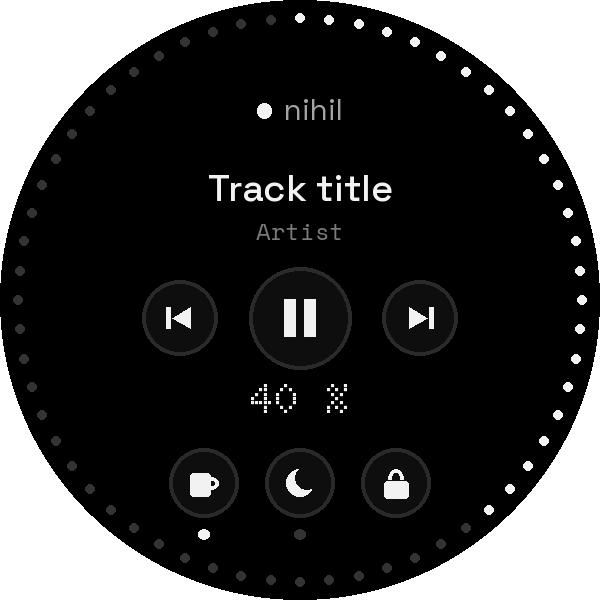
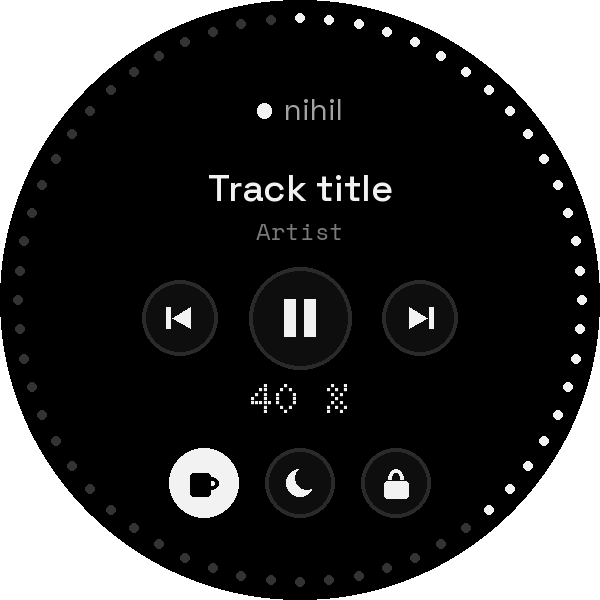
Home and deck: a click of the bezel is one step, never two; caffeine and night light in ink while on

Changed region(s): [[0.27, 0.75, 0.42, 0.9], [0.48, 0.87, 0.51, 0.9]]

diff --git a/app/src/main/java/com/nihilshell/wear/ui/DeckView.kt b/app/src/main/java/com/nihilshell/wear/ui/DeckView.kt
@@ -16,7 +16,6 @@ import android.view.ViewConfiguration
 import com.nihilshell.wear.R
 import com.nihilshell.wear.core.Turns
 import org.json.JSONObject
-import kotlin.math.abs
 import kotlin.math.cos
 import kotlin.math.hypot
 import kotlin.math.min
@@ -27,8 +26,9 @@ import kotlin.math.sin
  * The computer's deck on the watch: what plays and its keys; the bezel or
  * the crown turns the volume, which the LEDs round the edge show, as the
  * desktop's light goes round its frame; the computer's caffeine, night light
- * and lock under it, each with its LED. A LED before the computer's name says
- * whether it answers; what went wrong is said in ink, with a red LED before it.
+ * and lock under it, caffeine and night light lit in ink while they are on. A
+ * LED before the computer's name says whether it answers; what went wrong is
+ * said in ink, with a red LED before it.
  */
 class DeckView(context: Context) : View(context) {
     var name = ""
@@ -177,22 +177,23 @@ class DeckView(context: Context) : View(context) {
     private fun key(canvas: Canvas, name: String, x: Float, y: Float, radius: Float, size: Float) {
         keys[name] = floatArrayOf(x, y, radius)
         val down = pressed == name
+        val lit = on[name] == true
         ring.strokeWidth = size * 0.006f
-        ring.color = if (down) Nihil.INK else Nihil.LINE
-        dots.color = if (down) Nihil.RAISED else Nihil.SURFACE
+        ring.color = if (down || lit) Nihil.INK else Nihil.LINE
+        dots.color = when {
+            lit && down -> Nihil.DIM
+            lit -> Nihil.INK
+            down -> Nihil.RAISED
+            else -> Nihil.SURFACE
+        }
         canvas.drawCircle(x, y, radius, dots)
         canvas.drawCircle(x, y, radius, ring)
         val icon = icons[name]
         if (icon != null) {
             val half = (radius * 0.55f).roundToInt()
             icon.setBounds((x - half).roundToInt(), (y - half).roundToInt(), (x + half).roundToInt(), (y + half).roundToInt())
-            icon.setTint(Nihil.INK)
+            icon.setTint(if (lit) Nihil.VOID else Nihil.INK)
             icon.draw(canvas)
-            // Its LED, lit while it is on.
-            if (name != "lock") {
-                dots.color = if (on[name] == true) Nihil.INK else Nihil.OFF
-                canvas.drawCircle(x, y + radius + size * 0.028f, size * 0.009f, dots)
-            }
             return
         }
         dots.color = Nihil.INK
@@ -270,10 +271,10 @@ class DeckView(context: Context) : View(context) {
     /** The bezel or the crown: the volume, a step at a time, each with a tick. */
     override fun onGenericMotionEvent(event: MotionEvent): Boolean {
         if (event.action == MotionEvent.ACTION_SCROLL && event.isFromSource(InputDevice.SOURCE_ROTARY_ENCODER)) {
-            val steps = turns.add(-event.getAxisValue(MotionEvent.AXIS_SCROLL))
+            val steps = turns.add(-event.getAxisValue(MotionEvent.AXIS_SCROLL)).coerceIn(-1, 1)
             if (steps != 0) {
                 performHapticFeedback(HapticFeedbackConstants.CLOCK_TICK)
-                repeat(abs(steps)) { onTurn(if (steps > 0) 1 else -1) }
+                onTurn(steps)
             }
             return true
         }

diff --git a/app/src/main/java/com/nihilshell/wear/ui/AppList.kt b/app/src/main/java/com/nihilshell/wear/ui/AppList.kt
@@ -13,6 +13,7 @@ import android.view.VelocityTracker
 import android.view.View
 import android.view.ViewConfiguration
 import android.widget.OverScroller
+import com.nihilshell.wear.core.Turns
 import java.util.Date
 import kotlin.math.abs
 import kotlin.math.max
@@ -51,7 +52,7 @@ class AppList(context: Context) : View(context) {
     private var dragging = false
     private var flinging = false
     private var centred = 0
-    private val settle = Runnable { snap() }
+    private val turns = Turns()
 
     init {
         isFocusable = true
@@ -171,17 +172,28 @@ class AppList(context: Context) : View(context) {
 
     override fun performClick(): Boolean = super.performClick()
 
-    /** The crown, a rotating bezel or a touch bezel: Wear OS gives them all as the same scroll. */
+    /**
+     * The crown, a rotating bezel or a touch bezel: Wear OS gives them all as the
+     * same scroll. A click of a bezel, or a whole turn's worth of a crown, is one
+     * line and never more, however far the watch would scroll a list for it.
+     */
     override fun onGenericMotionEvent(event: MotionEvent): Boolean {
         if (event.action == MotionEvent.ACTION_SCROLL && event.isFromSource(InputDevice.SOURCE_ROTARY_ENCODER)) {
-            scroller.forceFinished(true)
-            flinging = false
-            move(-event.getAxisValue(MotionEvent.AXIS_SCROLL) * config.scaledVerticalScrollFactor)
-            removeCallbacks(settle)
-            postDelayed(settle, SETTLE)
+            val steps = turns.add(-event.getAxisValue(MotionEvent.AXIS_SCROLL)).coerceIn(-1, 1)
+            if (steps != 0) step(steps)
             return true
         }
         return super.onGenericMotionEvent(event)
+    }
+
+    /** One line up or down, from the one in the middle. */
+    private fun step(direction: Int) {
+        if (row <= 0f) return
+        scroller.forceFinished(true)
+        flinging = false
+        val target = (((offset / row).roundToInt() + direction) * row).coerceIn(0f, limit())
+        scroller.startScroll(0, offset.roundToInt(), 0, (target - offset).roundToInt(), Nihil.FAST.toInt())
+        postInvalidateOnAnimation()
     }
 
     private fun move(dy: Float) {
@@ -226,6 +238,5 @@ class AppList(context: Context) : View(context) {
 
     companion object {
         private const val ROW = 0.15f
-        private const val SETTLE = 140L
     }
 }

diff --git a/tools/screens.py b/tools/screens.py
@@ -87,8 +87,8 @@ def deck(level=40, playing=True, caffeine=True, night=False):
     draw.text((cx, cy - S * 0.165), "Track title", font=font("SpaceGrotesk-Medium.ttf", S * 0.064), fill=INK, anchor="ms")
     draw.text((cx, cy - S * 0.1), "Artist", font=font("SpaceMono-Regular.ttf", S * 0.04), fill=MUTED, anchor="ms")
 
-    def key(x, y, r):
-        draw.ellipse((x - r, y - r, x + r, y + r), fill=SURFACE, outline=LINE, width=max(1, round(S * 0.006)))
+    def key(x, y, r, lit=False):
+        draw.ellipse((x - r, y - r, x + r, y + r), fill=INK if lit else SURFACE, outline=INK if lit else LINE, width=max(1, round(S * 0.006)))
 
     for x, r in ((cx - S * 0.2, S * 0.062), (cx, S * 0.085), (cx + S * 0.2, S * 0.062)):
         key(x, cy + S * 0.03, r)
@@ -108,16 +108,16 @@ def deck(level=40, playing=True, caffeine=True, night=False):
     y = cy + S * 0.305
     r = S * 0.058
     for x, which in ((cx - S * 0.16, "caffeine"), (cx, "night"), (cx + S * 0.16, "lock")):
-        key(x, y, r)
+        lit = {"caffeine": caffeine, "night": night}.get(which, False)
+        key(x, y, r, lit)
         g = r * 0.5
+        ink, ground = (VOID, INK) if lit else (INK, SURFACE)
         if which == "caffeine":
-            draw.rounded_rectangle((x - g * 0.8, y - g * 0.55, x + g * 0.35, y + g * 0.75), radius=g * 0.2, fill=INK)
-            draw.arc((x + g * 0.05, y - g * 0.3, x + g * 0.85, y + g * 0.4), -90, 90, fill=INK, width=max(2, round(g * 0.22)))
-            dot(draw, x, y + r + S * 0.028, S * 0.009, INK if caffeine else OFF)
+            draw.rounded_rectangle((x - g * 0.8, y - g * 0.55, x + g * 0.35, y + g * 0.75), radius=g * 0.2, fill=ink)
+            draw.arc((x + g * 0.05, y - g * 0.3, x + g * 0.85, y + g * 0.4), -90, 90, fill=ink, width=max(2, round(g * 0.22)))
         elif which == "night":
-            dot(draw, x, y, g * 0.8, INK)
-            dot(draw, x + g * 0.38, y - g * 0.3, g * 0.66, SURFACE)
-            dot(draw, x, y + r + S * 0.028, S * 0.009, INK if night else OFF)
+            dot(draw, x, y, g * 0.8, ink)
+            dot(draw, x + g * 0.38, y - g * 0.3, g * 0.66, ground)
         else:
             draw.rounded_rectangle((x - g * 0.7, y - g * 0.1, x + g * 0.7, y + g * 0.85), radius=g * 0.15, fill=INK)
             draw.arc((x - g * 0.45, y - g * 0.75, x + g * 0.45, y + g * 0.35), 180, 360, fill=INK, width=max(2, round(g * 0.22)))
